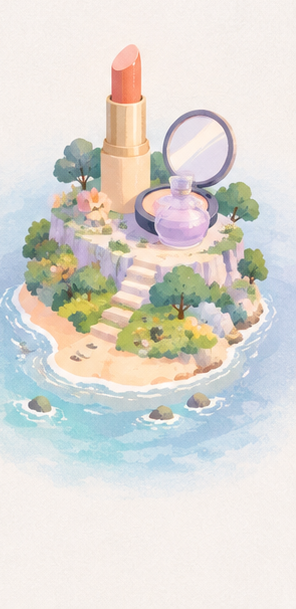
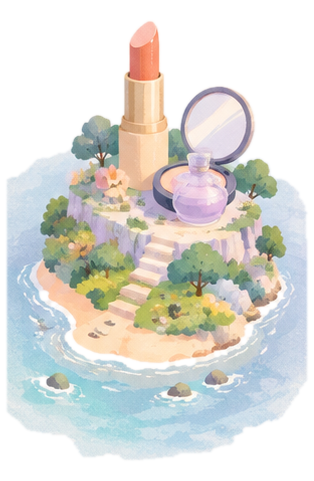
feat: 替换透明岛屿图并改为错乱地图板块布局

diff --git a/standalone.html b/standalone.html
@@ -47,21 +47,21 @@ button{color:inherit;-webkit-appearance:none;appearance:none;cursor:pointer}
 .hdr.home-header{margin:12px 12px 0;padding:24px 18px 30px;border:1px solid rgba(255,255,255,.7);border-radius:24px;background:linear-gradient(150deg,#FFD9AE 0%,#FFE9D2 48%,#E4F0F7 100%);transition:transform .3s ease,opacity .3s ease}
 .hdr.home-header.collapsed{transform:translateY(calc(-100% - 16px));opacity:0;pointer-events:none}
 .home-overlap{margin-left:12px;margin-right:12px}
-.island-map{position:relative;margin:0;min-height:960px;padding:0;background:#fff;overflow:hidden}
+.island-map{position:relative;margin:0;min-height:1040px;padding:0;background:#fff;overflow:hidden}
 .island-lines{position:absolute;inset:0;width:100%;height:100%;z-index:1;pointer-events:none}
 .island-title{position:relative;z-index:3;display:flex;align-items:center;justify-content:space-between;gap:10px;padding:calc(env(safe-area-inset-top,0px) + 18px) 20px 0}
 .island-title h1{margin:0;font-size:20px;letter-spacing:-.4px;color:var(--ink)}
 .island-title .count{font-size:11px;font-weight:700;color:var(--muted)}
 .island-search{position:relative;z-index:3;display:grid;place-items:center;width:36px;height:36px;flex:none;border:1px solid var(--line);border-radius:50%;background:#fff;color:var(--deep);box-shadow:0 4px 12px rgba(90,60,40,.08)}
 .island-search svg{width:18px;height:18px}
-.island-node{position:absolute;z-index:2;width:27%;display:flex;flex-direction:column;align-items:center;padding:0;border:0;background:none;transform:translate(-50%,-50%)}
-.island-orb{position:relative;width:100%;aspect-ratio:3/4;background-size:cover;background-position:center top;border-radius:18px;transition:transform .2s ease,filter .3s ease;-webkit-mask-image:radial-gradient(ellipse 72% 64% at 50% 50%,#000 54%,transparent 100%);mask-image:radial-gradient(ellipse 72% 64% at 50% 50%,#000 54%,transparent 100%)}
-.island-node:active .island-orb{transform:scale(.95)}
+.island-node{position:absolute;z-index:2;display:flex;flex-direction:column;align-items:center;padding:0;border:0;background:none;transform:translate(-50%,-50%) rotate(var(--rot,0deg));transform-origin:center;transition:transform .2s ease}
+.island-node:active{transform:translate(-50%,-50%) rotate(var(--rot,0deg)) scale(.95)}
+.island-orb{position:relative;width:100%;aspect-ratio:314/449;background-size:contain;background-repeat:no-repeat;background-position:center;transition:filter .3s ease}
 .island-node.locked .island-orb{filter:grayscale(1) contrast(.96)}
-.island-node.lit .island-orb{filter:drop-shadow(0 8px 14px rgba(120,90,60,.18))}
+.island-node.lit .island-orb{filter:drop-shadow(0 12px 18px rgba(90,70,50,.22))}
 .island-name{margin-top:-2px;font-size:11px;font-weight:700;color:var(--ink);text-align:center;white-space:nowrap}
 .island-node.locked .island-name{color:#9A9A9A}
-.island-note{position:absolute;left:0;right:0;bottom:96px;z-index:3;text-align:center;font-size:10px;color:var(--muted)}
+.island-note{position:absolute;left:0;right:0;bottom:100px;z-index:3;text-align:center;font-size:10px;color:var(--muted)}
 .island-note b{color:var(--deep)}
 .hdr-eyebrow{margin:0;font-size:10px;font-weight:700;letter-spacing:.24em;color:var(--deep)}
 .hdr-greeting{margin:10px 0 0;font-size:12px;line-height:1.5;color:var(--deep)}
@@ -1481,17 +1481,19 @@ function viewHome(){
   const litIds=[...new Set(S.records.map(r=>r.islandId))]
   const litCount=homeList.filter(x=>litIds.includes(x.id)).length
   const spots=[
-    [26,14],[70,11],[30,31],[72,33],[22,51],[68,55],[32,73],[70,78]
+    {x:24,y:12,w:29,r:-7},{x:66,y:9,w:24,r:6},{x:38,y:29,w:26,r:4},
+    {x:74,y:32,w:22,r:-9},{x:16,y:47,w:27,r:8},{x:55,y:53,w:24,r:-5},
+    {x:30,y:70,w:25,r:6},{x:70,y:76,w:27,r:-6}
   ]
   const nodes=homeList.map((i,n)=>{
     const lit=litIds.includes(i.id)
-    const [x,y]=spots[n]||[50,50+n*10]
-    return `<button class="island-node ${lit?'lit':'locked'}" data-action="open-detail-id" data-id="${i.id}" style="left:${x}%;top:${y}%" title="${esc(i.name)}">
+    const s=spots[n]||{x:50,y:50+n*10,w:25,r:0}
+    return `<button class="island-node ${lit?'lit':'locked'}" data-action="open-detail-id" data-id="${i.id}" style="left:${s.x}%;top:${s.y}%;width:${s.w}%;--rot:${s.r}deg" title="${esc(i.name)}">
       <div class="island-orb" style="background-image:url('./images/islands/${i.id}.png')"></div>
       <span class="island-name">${esc(i.name)}</span>
     </button>`
   }).join('')
-  const pts=spots.map(([x,y],n)=>`${x},${y+3}`).join(' ')
+  const pts=spots.map(s=>`${s.x},${s.y+3}`).join(' ')
   const pending=S.bookings.filter(b=>b.status==='booked').length
   return `<div class="screen" style="padding-bottom:0">
     <div class="island-map">
